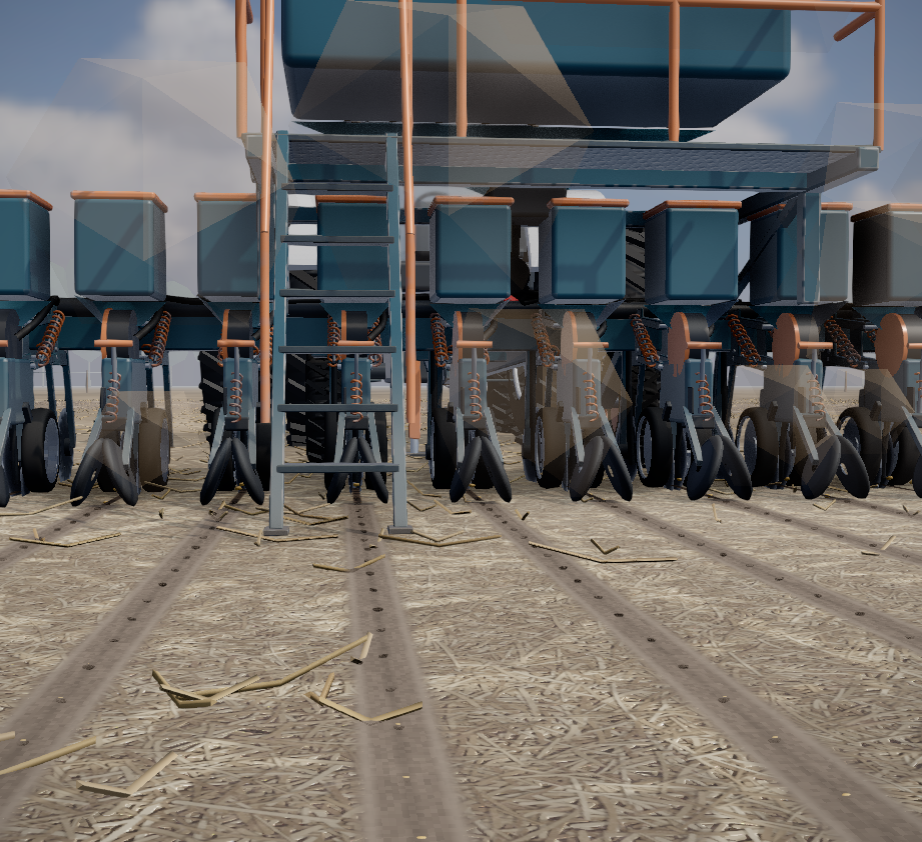
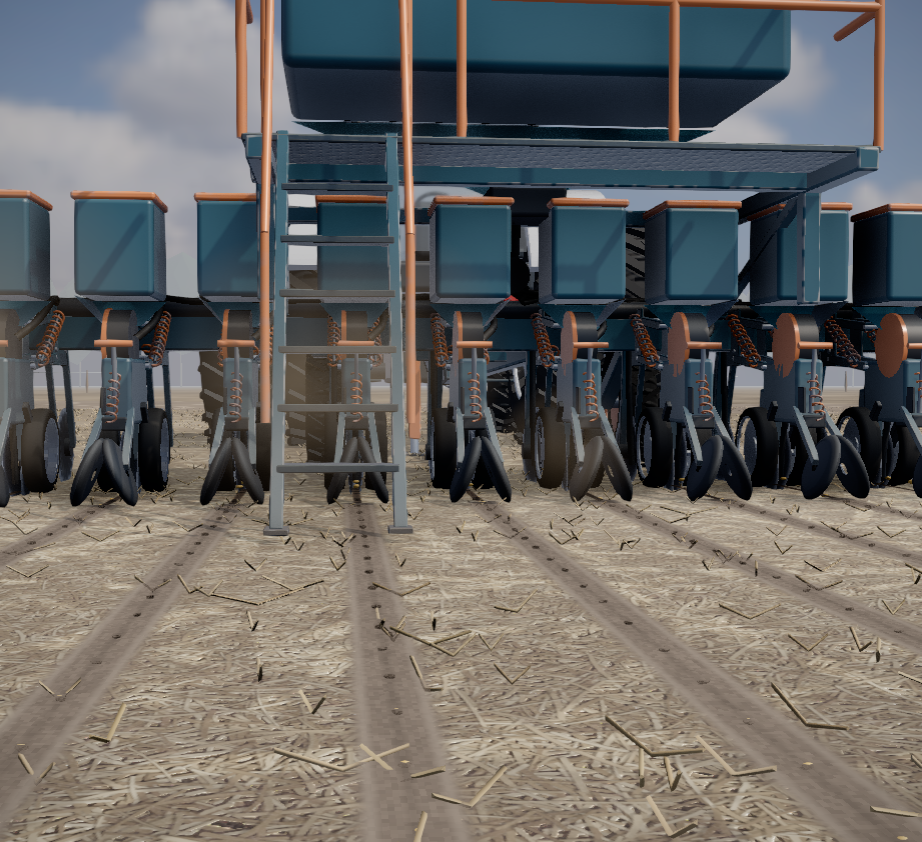
Fase 3: Campo con rastrojo fino y polvo suave; Ruta con huellas pulidas, pintura gastada, pasto en banquinas y cartel 3D
Claude-Session: https://claude.ai/code/session_01WMh8Zq1FV1rMtVYhaou2Fb

diff --git a/src/three/fieldDetail.ts b/src/three/fieldDetail.ts
@@ -16,10 +16,10 @@ const rnd = (() => {
 
 /* ------------------------------ rastrojo ------------------------------ */
 
-const STRAW_MAX = 9000;
-/** franja de rastrojo: ancho (x) y largo (z) alrededor de la máquina */
-const AREA_X = 46;
-const AREA_Z = 60;
+const STRAW_MAX = 16000;
+/** franja de rastrojo: ancho (x) y largo (z) alrededor de la máquina (≈13 pajas/m² en calidad alta) */
+const AREA_X = 34;
+const AREA_Z = 36;
 
 export class StrawField {
   mesh: THREE.InstancedMesh;
@@ -33,7 +33,7 @@ export class StrawField {
 
   constructor() {
     // paja: prisma triangular finito (6 caras visibles), con un leve doblez
-    const g = new THREE.CylinderGeometry(0.006, 0.007, 1, 3, 2, false);
+    const g = new THREE.CylinderGeometry(0.0035, 0.0045, 1, 3, 2, false);
     g.rotateZ(Math.PI / 2);
     const pos = g.getAttribute('position') as THREE.BufferAttribute;
     for (let i = 0; i < pos.count; i++) pos.setY(i, pos.getY(i) + Math.abs(pos.getX(i)) * 0.06);
@@ -51,9 +51,10 @@ export class StrawField {
       this.base[i * 5] = (rnd() - 0.5) * AREA_X;
       this.base[i * 5 + 1] = rnd() * AREA_Z;
       this.base[i * 5 + 2] = rnd() * Math.PI * 2;
-      this.base[i * 5 + 3] = 0.12 + rnd() * 0.32;
-      this.base[i * 5 + 4] = (rnd() - 0.5) * 0.25;
-      c.setHSL(0.1 + rnd() * 0.03, 0.28 + rnd() * 0.15, 0.45 + rnd() * 0.25);
+      this.base[i * 5 + 3] = 0.05 + rnd() * rnd() * 0.22;
+      this.base[i * 5 + 4] = (rnd() - 0.5) * 0.12;
+      // tonos de paja seca, algo grisácea (como la textura del suelo)
+      c.setHSL(0.1 + rnd() * 0.035, 0.18 + rnd() * 0.14, 0.5 + rnd() * 0.22);
       c.toArray(colors, i * 3);
     }
     this.mesh.instanceColor = new THREE.InstancedBufferAttribute(colors, 3);
@@ -77,7 +78,7 @@ export class StrawField {
       let z = ((this.base[i * 5 + 1] - offset) % AREA_Z + AREA_Z) % AREA_Z;
       z = z - AREA_Z * 0.45;
       const len = this.base[i * 5 + 3];
-      this.p.set(x, 0.012, z);
+      this.p.set(x, 0.006, z);
       this.e.set(0, this.base[i * 5 + 2], this.base[i * 5 + 4]);
       this.q.setFromEuler(this.e);
       this.s.set(len, 1, 1);
@@ -90,19 +91,38 @@ export class StrawField {
 
 /* ------------------------------ polvo ------------------------------ */
 
-const DUST_MAX = 420;
+const DUST_MAX = 260;
+let puffTex: THREE.Texture | null = null;
+/** Mancha suave (degradé radial con ruido) para las partículas de polvo. */
+function puffTexture(): THREE.Texture {
+  if (puffTex) return puffTex;
+  const S = 64;
+  const c = document.createElement('canvas');
+  c.width = c.height = S;
+  const ctx = c.getContext('2d')!;
+  const g = ctx.createRadialGradient(S / 2, S / 2, 0, S / 2, S / 2, S / 2);
+  g.addColorStop(0, 'rgba(255,255,255,0.9)');
+  g.addColorStop(0.45, 'rgba(255,255,255,0.45)');
+  g.addColorStop(1, 'rgba(255,255,255,0)');
+  ctx.fillStyle = g;
+  ctx.fillRect(0, 0, S, S);
+  puffTex = new THREE.CanvasTexture(c);
+  puffTex.colorSpace = THREE.SRGBColorSpace;
+  return puffTex;
+}
+
 export class DustEmitter {
   mesh: THREE.InstancedMesh;
   private parts: { x: number; y: number; z: number; vx: number; vy: number; vz: number; age: number; life: number; s: number }[] = [];
   private m = new THREE.Matrix4();
-  private q = new THREE.Quaternion();
   private v = new THREE.Vector3();
   private sc = new THREE.Vector3();
   private acc = 0;
 
   constructor() {
-    const g = new THREE.IcosahedronGeometry(0.5, 0);
-    const mat = new THREE.MeshStandardMaterial({ color: '#b39c7a', roughness: 1, transparent: true, opacity: 0.16, depthWrite: false });
+    // cuadrados que miran a la cámara (la orientación se copia de la cámara en cada cuadro)
+    const g = new THREE.PlaneGeometry(1, 1);
+    const mat = new THREE.MeshBasicMaterial({ color: '#b8a383', map: puffTexture(), transparent: true, opacity: 0.22, depthWrite: false, fog: true });
     mat.name = 'dust';
     this.mesh = new THREE.InstancedMesh(g, mat, DUST_MAX);
     this.mesh.frustumCulled = false;
@@ -111,13 +131,13 @@ export class DustEmitter {
   }
 
   /** Emite detrás de las tapadoras (`rowX`, z = `zBack`) proporcional a la velocidad. */
-  update(dt: number, speed: number, rowX: number[], zBack: number) {
+  update(dt: number, speed: number, rowX: number[], zBack: number, camQ: THREE.Quaternion) {
     if (speed > 0.3 && rowX.length) {
-      this.acc += dt * speed * 9;
+      this.acc += dt * speed * 4;
       while (this.acc > 1 && this.parts.length < DUST_MAX) {
         this.acc -= 1;
         const x = rowX[Math.floor(rnd() * rowX.length)] + (rnd() - 0.5) * 0.3;
-        this.parts.push({ x, y: 0.15, z: zBack - rnd() * 0.3, vx: (rnd() - 0.5) * 0.3, vy: 0.25 + rnd() * 0.35, vz: -speed * (0.75 + rnd() * 0.2), age: 0, life: 1.6 + rnd() * 1.6, s: 0.15 + rnd() * 0.2 });
+        this.parts.push({ x, y: 0.08, z: zBack - rnd() * 0.3, vx: (rnd() - 0.5) * 0.25, vy: 0.12 + rnd() * 0.2, vz: -speed * (0.8 + rnd() * 0.15), age: 0, life: 1.2 + rnd() * 1.4, s: 0.25 + rnd() * 0.25 });
       }
     }
     let n = 0;
@@ -127,12 +147,13 @@ export class DustEmitter {
       p.x += p.vx * dt;
       p.y += p.vy * dt;
       p.z += p.vz * dt;
-      p.vy *= 0.97;
+      p.vy *= 0.96;
       const k = p.age / p.life;
-      const size = p.s * (1 + k * 3.5) * Math.sin(Math.min(1, k * 3) * Math.PI * 0.5) * (1 - k * 0.4);
+      // crece y se desvanece (la opacidad se simula con el tamaño: al final es grande y muy tenue)
+      const size = p.s * (0.6 + k * 2.2) * Math.sin(Math.min(1, (1 - k) * 2.5) * Math.PI * 0.5);
       this.sc.setScalar(Math.max(0.001, size));
-      this.v.set(p.x, p.y, p.z);
-      this.m.compose(this.v, this.q, this.sc);
+      this.v.set(p.x, p.y + size * 0.3, p.z);
+      this.m.compose(this.v, camQ, this.sc);
       this.parts[n++] = p;
       this.mesh.setMatrixAt(n - 1, this.m);
     }
@@ -277,5 +298,137 @@ export function fieldHorizon(): THREE.Group {
     }
   });
   horizon = g;
+  return g;
+}
+
+/* ------------------------------ ruta ------------------------------ */
+
+let verge: THREE.InstancedMesh | null = null;
+/**
+ * Matas de pasto a los costados de la ruta (franjas a la izquierda y derecha de las banquinas),
+ * instanciadas; `xs` = centros de cada franja. Se desplazan con el avance como la ruta.
+ */
+export function roadVerge(xs: number[], width: number, tile = 70, count = 5400): THREE.InstancedMesh {
+  if (verge) return verge;
+  // mata: tres hojas cruzadas (planos finos), pocas caras
+  const blade = new THREE.PlaneGeometry(0.05, 0.32, 1, 2);
+  blade.translate(0, 0.16, 0);
+  const pos = blade.getAttribute('position') as THREE.BufferAttribute;
+  for (let i = 0; i < pos.count; i++) pos.setX(i, pos.getX(i) * (1 - pos.getY(i) / 0.34));
+  const parts: THREE.BufferGeometry[] = [];
+  for (let k = 0; k < 3; k++) {
+    const b = blade.clone();
+    b.rotateZ((k - 1) * 0.35);
+    b.rotateY((k * Math.PI) / 3);
+    parts.push(b);
+  }
+  const geo = mergeTufts(parts);
+  const mat = new THREE.MeshStandardMaterial({ color: '#ffffff', roughness: 0.9, side: THREE.DoubleSide });
+  mat.name = 'grassTuft';
+  const mesh = new THREE.InstancedMesh(geo, mat, count);
+  const m = new THREE.Matrix4();
+  const q = new THREE.Quaternion();
+  const c = new THREE.Color();
+  // patrón periódico de `tile` metros repetido 3 veces: al desplazarlo módulo `tile` no hay saltos
+  const per = Math.floor(count / 3);
+  for (let i = 0; i < per; i++) {
+    const x = xs[i % xs.length] + (rnd() - 0.5) * width;
+    const z = rnd() * tile;
+    const sc = 0.6 + rnd() * 0.9;
+    const rotY = rnd() * 6.28;
+    const sy = sc * (0.7 + rnd() * 0.8);
+    // pasto pampeano a fin de invierno: verde apagado con puntas secas
+    c.setHSL(0.17 + rnd() * 0.08, 0.3 + rnd() * 0.2, 0.3 + rnd() * 0.15);
+    for (let k = -1; k <= 1; k++) {
+      m.compose(new THREE.Vector3(x, 0, z + k * tile), q.setFromEuler(new THREE.Euler(0, rotY, 0)), new THREE.Vector3(sc, sy, sc));
+      mesh.setMatrixAt(i * 3 + k + 1, m);
+      mesh.setColorAt(i * 3 + k + 1, c);
+    }
+  }
+  mesh.count = per * 3;
+  mesh.frustumCulled = false;
+  mesh.receiveShadow = true;
+  verge = mesh;
+  return mesh;
+}
+
+function mergeTufts(parts: THREE.BufferGeometry[]): THREE.BufferGeometry {
+  let n = 0;
+  for (const p of parts) n += p.getAttribute('position').count;
+  const pos = new Float32Array(n * 3);
+  const nor = new Float32Array(n * 3);
+  const idx: number[] = [];
+  let off = 0;
+  for (const p of parts) {
+    pos.set(p.getAttribute('position').array as Float32Array, off * 3);
+    nor.set(p.getAttribute('normal').array as Float32Array, off * 3);
+    const ix = p.index!.array;
+    for (let k = 0; k < ix.length; k++) idx.push(ix[k] + off);
+    off += p.getAttribute('position').count;
+  }
+  const g = new THREE.BufferGeometry();
+  g.setAttribute('position', new THREE.BufferAttribute(pos, 3));
+  g.setAttribute('normal', new THREE.BufferAttribute(nor, 3));
+  g.setIndex(idx);
+  return g;
+}
+
+let sign: THREE.Group | null = null;
+/** Cartel vial de advertencia en 3D: poste galvanizado, chapa con borde plegado y frente con símbolo. */
+export function roadSign(): THREE.Group {
+  if (sign) return sign;
+  const mats = getMaterials();
+  const g = new THREE.Group();
+  const post = new THREE.Mesh(new THREE.CylinderGeometry(0.035, 0.035, 2.6, 10), mats.galvanized);
+  post.position.y = 1.3;
+  // frente: canvas con fondo amarillo, borde negro y símbolo de maquinaria agrícola (genérico)
+  const S = 256;
+  const c = document.createElement('canvas');
+  c.width = c.height = S;
+  const ctx = c.getContext('2d')!;
+  ctx.fillStyle = '#e8b923';
+  ctx.fillRect(0, 0, S, S);
+  ctx.strokeStyle = '#151515';
+  ctx.lineWidth = 16;
+  ctx.strokeRect(14, 14, S - 28, S - 28);
+  ctx.save();
+  ctx.translate(S / 2, S / 2);
+  ctx.rotate(-Math.PI / 4); // el cartel se gira 45°: el símbolo queda derecho
+  ctx.fillStyle = '#151515';
+  ctx.fillRect(-46, -8, 70, 30); // cuerpo del tractor
+  ctx.fillRect(-10, -40, 30, 34); // cabina
+  ctx.beginPath();
+  ctx.arc(-30, 32, 22, 0, Math.PI * 2);
+  ctx.arc(34, 38, 14, 0, Math.PI * 2);
+  ctx.fill();
+  ctx.restore();
+  const tex = new THREE.CanvasTexture(c);
+  tex.colorSpace = THREE.SRGBColorSpace;
+  tex.anisotropy = 4;
+  const face = new THREE.MeshStandardMaterial({ map: tex, roughness: 0.35, metalness: 0 });
+  face.name = 'signFace';
+  const board = new THREE.Group();
+  const plate = new THREE.Mesh(new THREE.BoxGeometry(0.72, 0.72, 0.012), mats.galvanized);
+  const front = new THREE.Mesh(new THREE.PlaneGeometry(0.7, 0.7), face);
+  front.position.z = 0.0065;
+  // borde plegado de la chapa
+  const rim = new THREE.Mesh(new THREE.TorusGeometry(0.5, 0.01, 4, 4), mats.galvanized);
+  rim.rotation.z = Math.PI / 4;
+  rim.scale.set(0.72, 0.72, 1);
+  board.add(plate, front, rim);
+  board.rotation.z = Math.PI / 4;
+  board.position.set(0, 2.35, 0.05);
+  // abrazaderas
+  const clamp = new THREE.Mesh(new THREE.CylinderGeometry(0.045, 0.045, 0.05, 10), mats.steel);
+  const c1 = clamp.clone();
+  c1.position.y = 2.15;
+  const c2 = clamp.clone();
+  c2.position.y = 2.55;
+  g.add(post, board, c1, c2);
+  g.traverse((o) => {
+    const mesh = o as THREE.Mesh;
+    if (mesh.isMesh) mesh.castShadow = true;
+  });
+  sign = g;
   return g;
 }

diff --git a/src/three/RoadScene.tsx b/src/three/RoadScene.tsx
@@ -9,6 +9,7 @@ import { createGroundMaterial, loadTex } from './ground';
 import { Tractor, TRACTOR } from './Tractor';
 import { computeLayout, DIM } from '../machines/seeder/layout';
 import { useWarmup, useWarmupObject } from '../render-kit/warmup';
+import { roadSign, roadVerge } from './fieldDetail';
 
 const ROAD_W = 7.3;
 const SHOULDER = 1.6;
@@ -53,11 +54,55 @@ function buildRoadMaterials() {
     for (const t of [ac, an, ar]) t.repeat.set(ROAD_W / 3, 200);
     // envMapIntensity bajo: el asfalto no es espejo (a contraluz reflejaba el cielo y se veía lavado)
     const asphalt = new THREE.MeshStandardMaterial({ map: ac, normalMap: an, roughnessMap: ar, roughness: 1, color: '#9a9a9a', envMapIntensity: 0.45 });
+    asphalt.name = 'asphalt';
+    // huellas de rodado: más oscuras y pulidas (menos rugosas) en las dos sendas de cada carril
+    asphalt.onBeforeCompile = (sh) => {
+      sh.fragmentShader = sh.fragmentShader
+        .replace(
+          '#include <roughnessmap_fragment>',
+          `#include <roughnessmap_fragment>
+          {
+            float u = vMapUv.x / ${(ROAD_W / 3).toFixed(4)};
+            float tr = 0.0;
+            tr += 1.0 - smoothstep(0.02, 0.07, abs(u - 0.16));
+            tr += 1.0 - smoothstep(0.02, 0.07, abs(u - 0.36));
+            tr += 1.0 - smoothstep(0.02, 0.07, abs(u - 0.64));
+            tr += 1.0 - smoothstep(0.02, 0.07, abs(u - 0.84));
+            tr = clamp(tr, 0.0, 1.0);
+            roughnessFactor = mix(roughnessFactor, roughnessFactor * 0.55, tr);
+            diffuseColor.rgb *= 1.0 - tr * 0.18;
+          }`,
+        );
+    };
+    asphalt.customProgramCacheKey = () => 'asphalt-tracks';
     const gc = loadTex('textures/gravel_color.webp', true);
     const gn = loadTex('textures/gravel_normal.webp');
     for (const t of [gc, gn]) t.repeat.set(SHOULDER / 1.5, 400);
-    const gravel = new THREE.MeshStandardMaterial({ map: gc, normalMap: gn, roughness: 0.95, color: '#b8b0a2', envMapIntensity: 0.6 });
+    // banquina de tierra (ripio tirando a marrón)
+    const gravel = new THREE.MeshStandardMaterial({ map: gc, normalMap: gn, roughness: 0.95, color: '#b09a7e', envMapIntensity: 0.6 });
     const paint = new THREE.MeshStandardMaterial({ color: '#f2f2ee', roughness: 0.6 });
+    paint.name = 'roadPaint';
+    // pintura gastada: ruido en coordenadas de mundo oscurece y "come" la línea
+    paint.onBeforeCompile = (sh) => {
+      sh.vertexShader = sh.vertexShader
+        .replace('#include <common>', '#include <common>\nvarying vec3 vWp;')
+        .replace('#include <project_vertex>', `#include <project_vertex>
+          vec4 wpp = vec4(transformed, 1.0);
+          #ifdef USE_INSTANCING
+            wpp = instanceMatrix * wpp;
+          #endif
+          vWp = (modelMatrix * wpp).xyz;`);
+      sh.fragmentShader = sh.fragmentShader
+        .replace('#include <common>', `#include <common>
+          varying vec3 vWp;
+          float ph(vec2 p){ return fract(sin(dot(p, vec2(127.1, 311.7))) * 43758.5453); }
+          float pn(vec2 p){ vec2 i = floor(p); vec2 f = fract(p); f = f*f*(3.0-2.0*f);
+            return mix(mix(ph(i), ph(i+vec2(1,0)), f.x), mix(ph(i+vec2(0,1)), ph(i+vec2(1,1)), f.x), f.y); }`)
+        .replace('#include <color_fragment>', `#include <color_fragment>
+          float wear = pn(vWp.xz * vec2(18.0, 3.0)) * 0.6 + pn(vWp.xz * 60.0) * 0.4;
+          diffuseColor.rgb = mix(diffuseColor.rgb, vec3(0.32, 0.32, 0.31), smoothstep(0.55, 0.8, wear) * 0.75);`);
+    };
+    paint.customProgramCacheKey = () => 'road-paint-wear';
     const yellow = new THREE.MeshStandardMaterial({ color: '#e8b923', roughness: 0.6 });
     return { asphalt, gravel, paint, yellow };
   }
@@ -95,6 +140,7 @@ export default function RoadScene() {
   const road = useRef({ d: 0, v: 0 });
   const dashGroup = useRef<THREE.Group>(null);
   const signGroup = useRef<THREE.Group>(null);
+  const grassGroup = useRef<THREE.Group>(null);
   const warm = useWarmup();
   useExposure(0.95);
   useFrame((_, dt) => {
@@ -116,6 +162,7 @@ export default function RoadScene() {
     for (const t of [mats.gravel.map, mats.gravel.normalMap]) if (t) t.offset.y = -r.d / 1.5;
     ground.uniforms.uOffset.value = r.d;
     if (dashGroup.current) dashGroup.current.position.z = -(r.d % 12);
+    if (grassGroup.current) grassGroup.current.position.z = -(r.d % 70);
     if (signGroup.current) signGroup.current.position.z = 60 - (r.d % 140);
     m?.spinTransportWheels(r.d);
     runtime.invalidate();
@@ -125,6 +172,12 @@ export default function RoadScene() {
   const roadX = machineX - ROAD_W / 4;
   const G = getRoadGeo(mats.paint);
   const warmDashes = useWarmupObject(G.dashes);
+  const signObj = useMemo(() => roadSign(), []);
+  const warmSign = useWarmupObject(signObj);
+  // pasto a ambos lados (más allá de cada banquina); se mueve con las líneas
+  const grass = useMemo(() => roadVerge([-(ROAD_W / 2 + SHOULDER + 1.4), ROAD_W / 2 + SHOULDER + 1.4], 2.6), []);
+  const warmGrass = useWarmupObject(grass);
+  const quality = useStore((s) => s.quality);
   const base = import.meta.env.BASE_URL;
   return (
     // dispose={null}: geometrías/materiales/texturas compartidos (cacheados); R3F no debe liberarlos al desmontar
@@ -142,6 +195,11 @@ export default function RoadScene() {
       {[-1, 1].map((s) => (
         <mesh key={`e${s}`} rotation-x={-Math.PI / 2} position={[roadX + s * (ROAD_W / 2 - 0.2), 0.004, 0]} material={mats.paint} geometry={G.edge} />
       ))}
+      {quality !== 'low' && !warmGrass && (
+        <group ref={grassGroup} position={[roadX, 0, 0]}>
+          <primitive object={grass} dispose={null} />
+        </group>
+      )}
       <group ref={dashGroup}>
         <group position={[roadX, 0, 0]}>
           {!warmDashes && <primitive object={G.dashes} dispose={null} />}
@@ -149,8 +207,7 @@ export default function RoadScene() {
       </group>
       {/* cartel de advertencia genérico */}
       <group ref={signGroup} position={[roadX + ROAD_W / 2 + SHOULDER + 0.8, 0, 14]}>
-        <mesh position={[0, 1.2, 0]} material={mats.gravel} geometry={G.post} />
-        <mesh position={[0, 2.3, 0]} rotation={[0, -0.4, Math.PI / 4]} material={mats.yellow} geometry={G.sign} />
+        {!warmSign && <primitive object={signObj} rotation-y={-0.4} dispose={null} />}
       </group>
       <RoadTractor />
     </group>

diff --git a/src/three/FieldScene.tsx b/src/three/FieldScene.tsx
@@ -81,12 +81,12 @@ function FieldDetail() {
     st.update(runtime.distance, true);
   }, [quality, st]);
   useEffect(() => () => du.clear(), [du]);
-  useFrame((_, dt) => {
+  useFrame(({ camera }, dt) => {
     if (warmA) return;
     st.update(runtime.distance);
     if (quality !== 'low') {
       const step = Math.min(dt, 0.05) * runtime.timeScale;
-      if (du.update(step, runtime.speed, lay.rowX, ROW.closing.z - 0.2)) runtime.invalidate();
+      if (du.update(step, runtime.speed, lay.rowX, ROW.closing.z - 0.2, camera.quaternion)) runtime.invalidate();
     }
   });
   if (warmA || warmB) return null;
